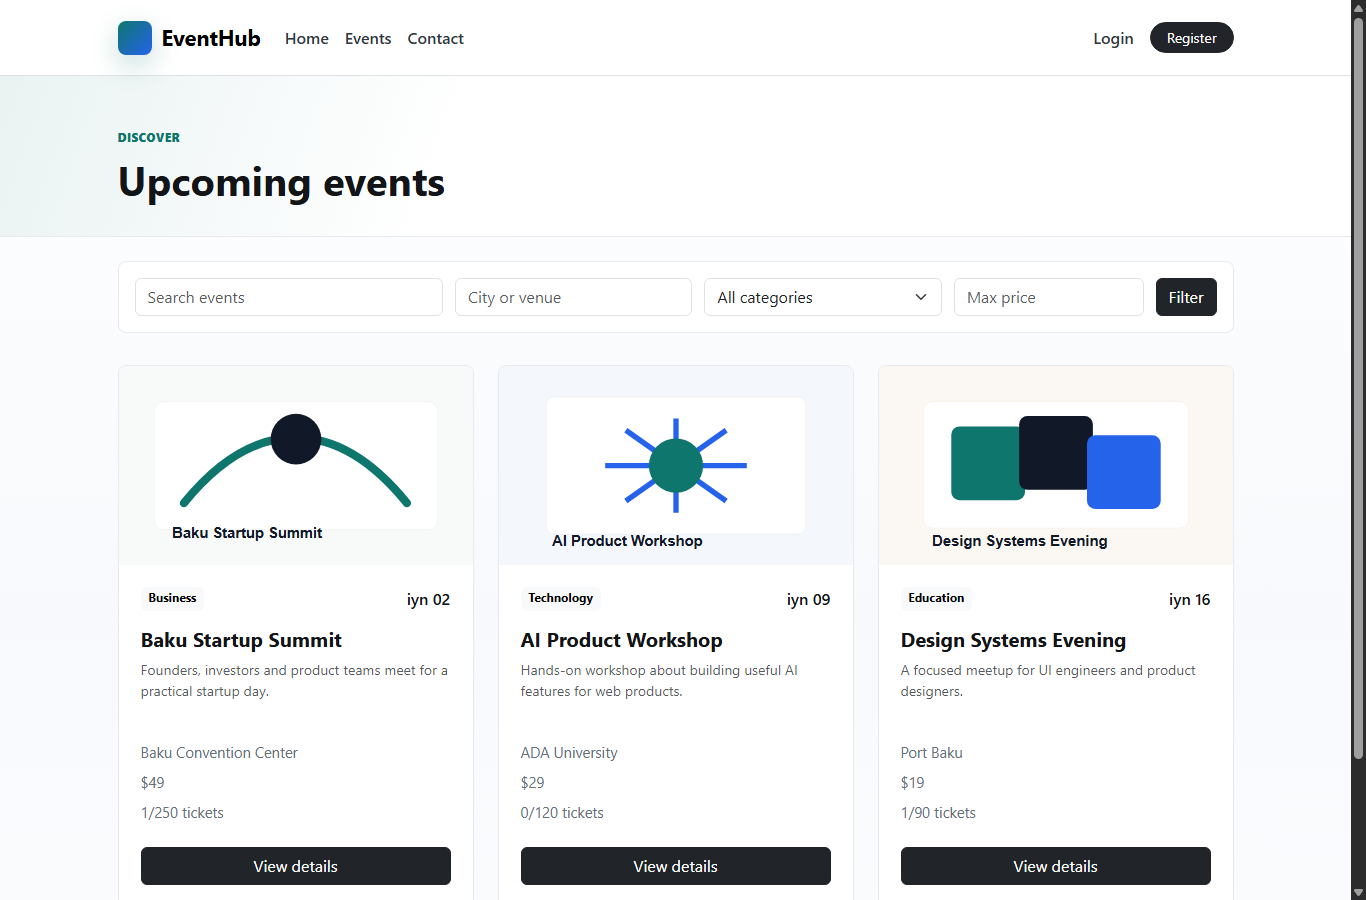
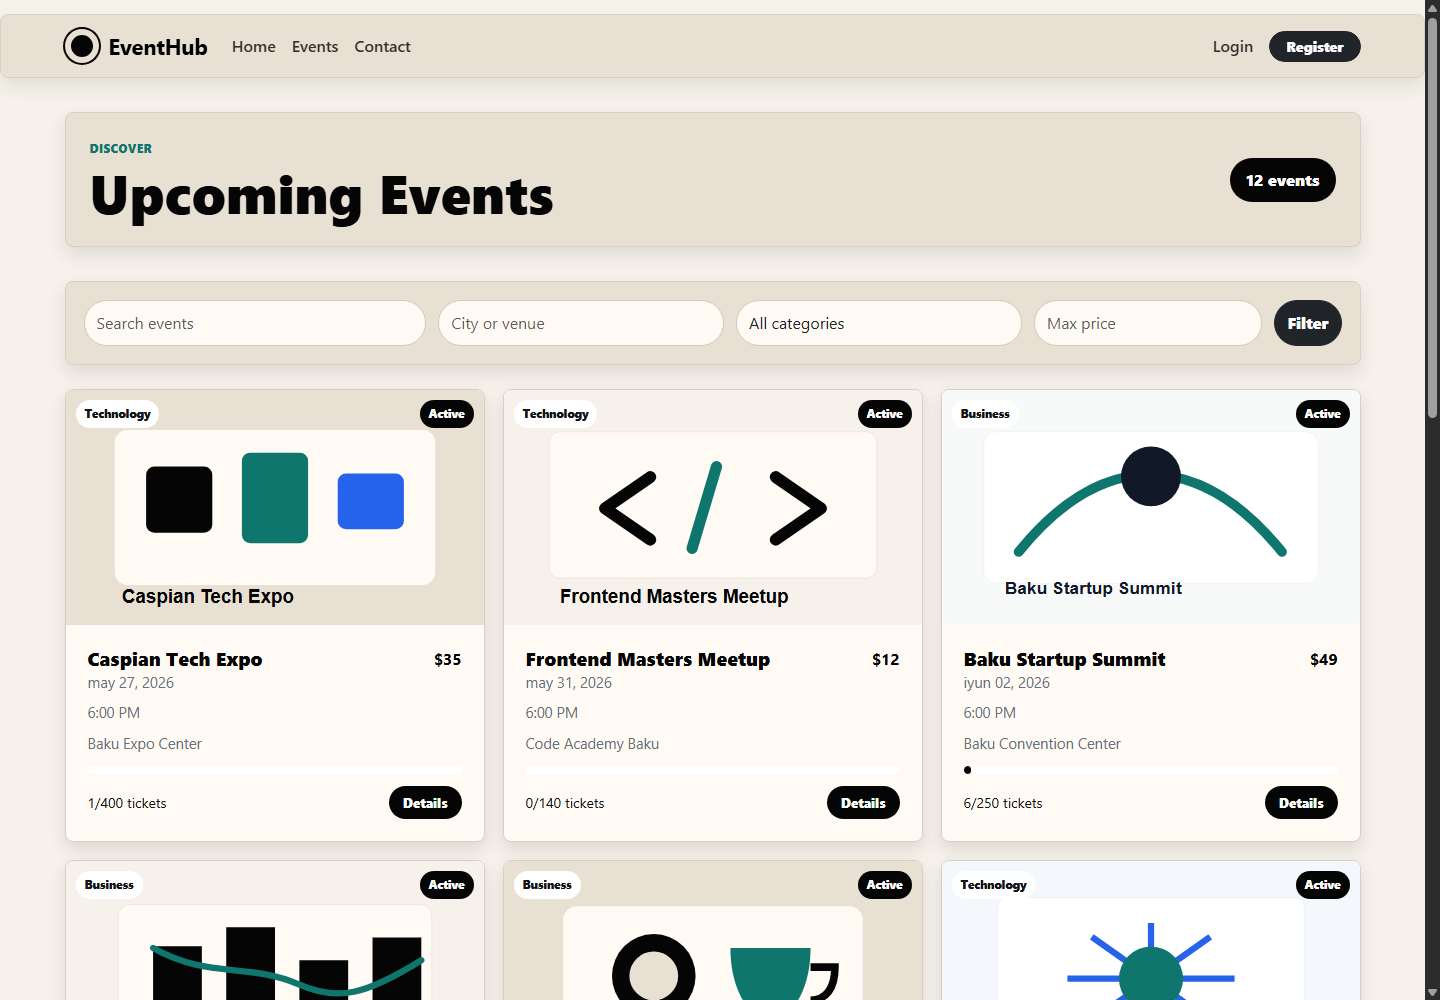
Update README with project screenshots

diff --git a/README.md b/README.md
@@ -1,42 +1,54 @@
-# EventHub
+# EventHub
 
-Advanced event management platform built with ASP.NET Core MVC, Entity Framework Core, Identity authentication and role-based authorization.
-
-## Features
-
-- Authentication with ASP.NET Identity
-- Role-based access control: Admin, Organizer, User
-- Event creation, editing and deletion
-- Category management
-- Ticket reservation with capacity checks
-- Admin dashboard metrics: users, events, active events, registrations, revenue
-- Search and filtering by title, location, category and price
-- Responsive Bootstrap UI
-- Local image upload for event covers
-- Repository Pattern, Unit of Work, DTOs and service layer
+EventHub is a portfolio-ready event management platform built with ASP.NET Core MVC. It supports public event discovery, authentication, role-based dashboards, ticket reservation, and a personal ticket calendar backed by a real database.
 
 ## Screenshots
 
-### Home page
+### Home
 
 ![EventHub home page](docs/screenshots/eventhub-home.png)
 
-### Events page
+### Events
 
 ![EventHub events page](docs/screenshots/eventhub-events.png)
 
+### Login
+
+![EventHub login page](docs/screenshots/eventhub-login.png)
+
+### Register
+
+![EventHub register page](docs/screenshots/eventhub-register.png)
+
+## Features
+
+- User registration, login and logout with ASP.NET Identity
+- Role-based access control for Admin, Organizer and User
+- Public event listing with search and filters
+- Event details page with ticket reservation
+- User ticket calendar that shows purchased tickets by event date
+- Organizer event management panel
+- Admin dashboard with statistics and event insights
+- Category management
+- Local image upload support for event covers
+- Seeded demo users, categories and events
+- Responsive Eventopia-inspired UI design
+
 ## Tech Stack
 
-- .NET 10 / ASP.NET Core MVC
+- ASP.NET Core MVC / .NET 10
 - Entity Framework Core
+- SQLite database by default
 - SQL Server-ready configuration
-- SQLite local fallback for easy demo runs
-- ASP.NET Core Identity
-- Bootstrap, HTML, CSS, JavaScript
+- ASP.NET Identity
+- LINQ
+- Repository Pattern and Unit of Work
+- DTOs, ViewModels and Services
+- Bootstrap, HTML, CSS and JavaScript
 
 ## Demo Accounts
 
-All seeded accounts use this password:
+All demo accounts use the same password:
 
 ```text
 EventHub123!
@@ -56,17 +68,29 @@ dotnet build EventHub.slnx
 dotnet run --project EventHub.Web/EventHub.Web.csproj --no-launch-profile --urls http://localhost:5088
 ```
 
-Open:
+Open the app:
 
 ```text
 http://localhost:5088
 ```
 
-## Database Provider
+You can also run the helper script on Windows:
 
-The project runs with SQLite by default so it works immediately on machines without SQL Server LocalDB.
+```powershell
+.\run-eventhub.ps1
+```
 
-To use SQL Server, update `EventHub.Web/appsettings.json`:
+## Database
+
+The project uses a real SQLite database by default:
+
+```text
+EventHub.Web/eventhub.db
+```
+
+The application stores users, roles, events, categories, registrations and ticket reservations in the database. `appsettings.json` only stores configuration, not application data.
+
+To switch to SQL Server, update `EventHub.Web/appsettings.json`:
 
 ```json
 {
@@ -80,17 +104,19 @@ Then set `DefaultConnection` to your SQL Server connection string.
 
 ```text
 EventHub.Web
-в”њв”Ђв”Ђ Areas/Admin
-в”њв”Ђв”Ђ Constants
-в”њв”Ђв”Ђ Controllers
-в”њв”Ђв”Ђ Data
-в”њв”Ђв”Ђ DTOs
-в”њв”Ђв”Ђ Interfaces
-в”њв”Ђв”Ђ Models
-в”њв”Ђв”Ђ Repositories
-в”њв”Ђв”Ђ Services
-в”њв”Ђв”Ђ ViewModels
-в”њв”Ђв”Ђ Views
-в””в”Ђв”Ђ wwwroot
+├── Areas/Admin
+├── Controllers
+├── Data
+├── DTOs
+├── Interfaces
+├── Models
+├── Repositories
+├── Services
+├── ViewModels
+├── Views
+└── wwwroot
 ```
 
+## Project Summary
+
+EventHub demonstrates a clean MVC architecture with authentication, authorization, event management, ticket reservation, dashboard analytics and a database-backed calendar experience.
